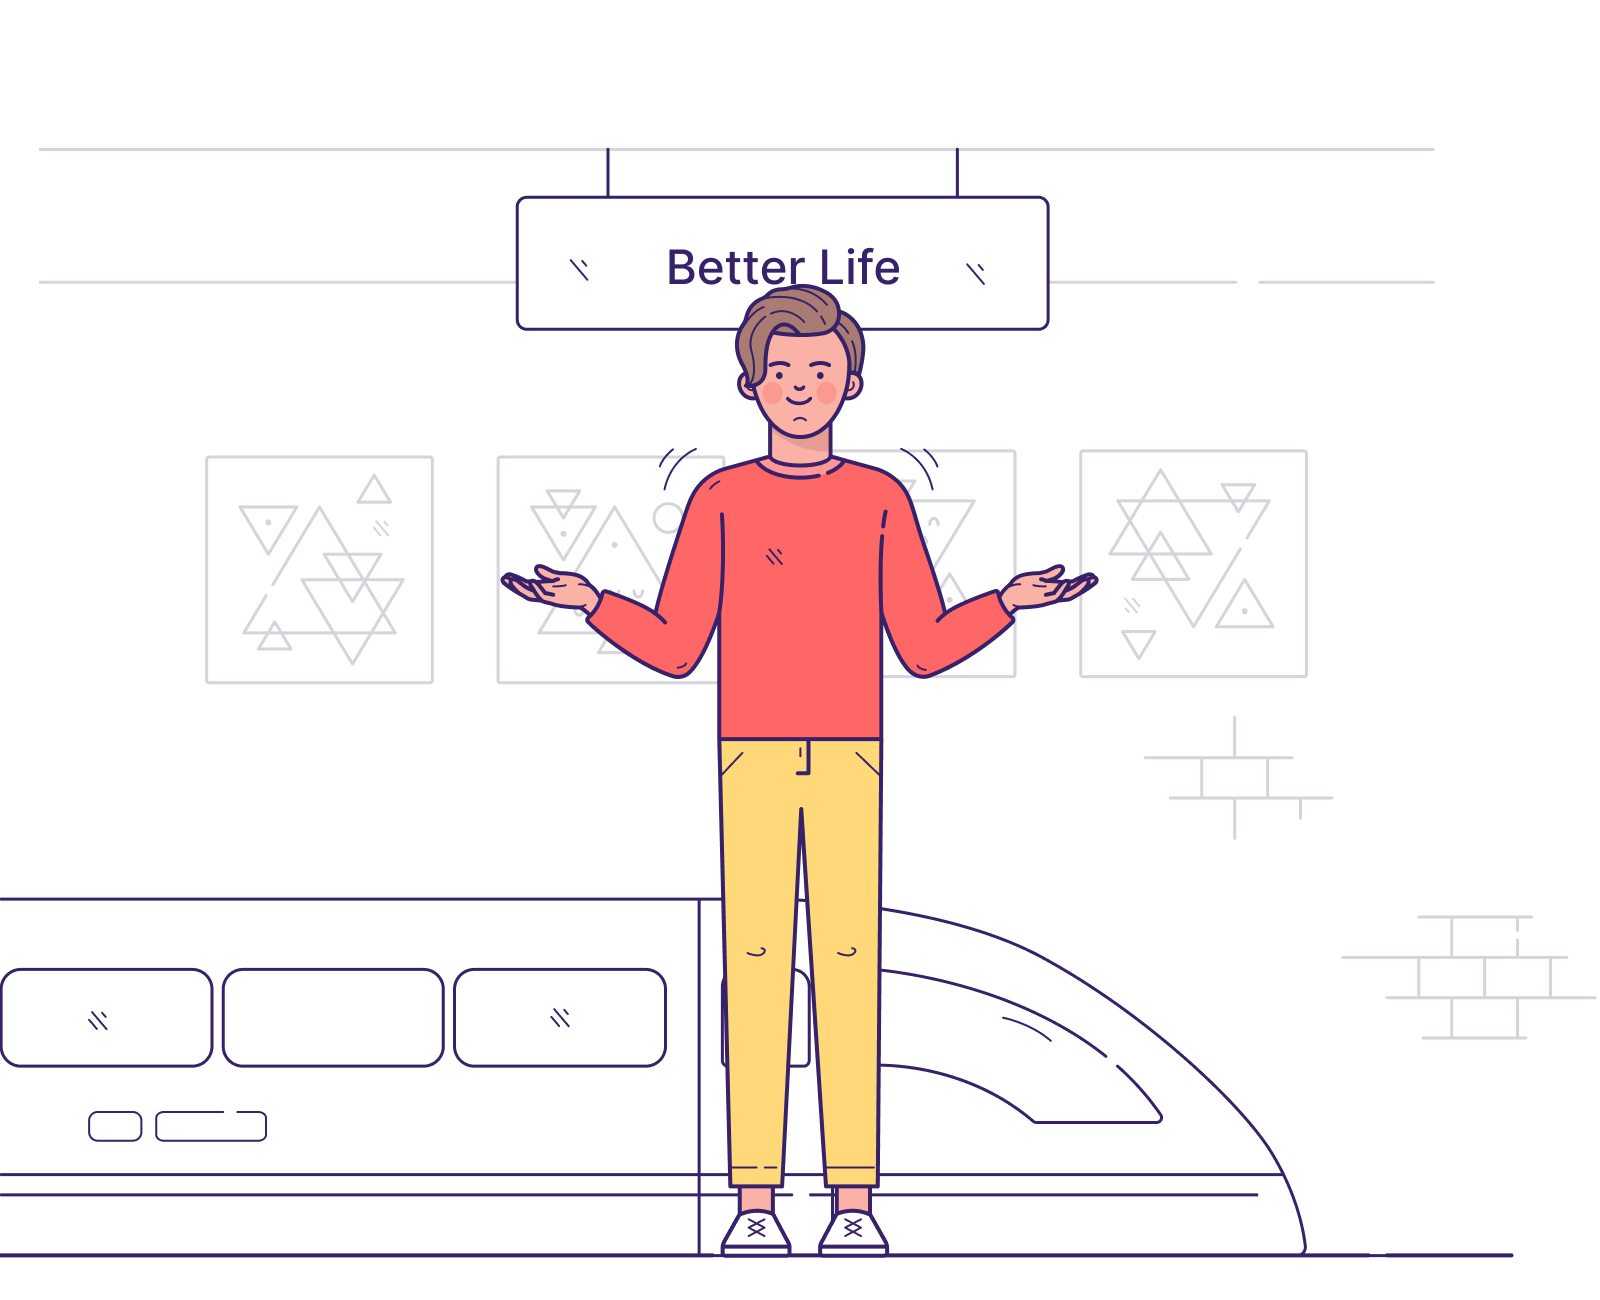
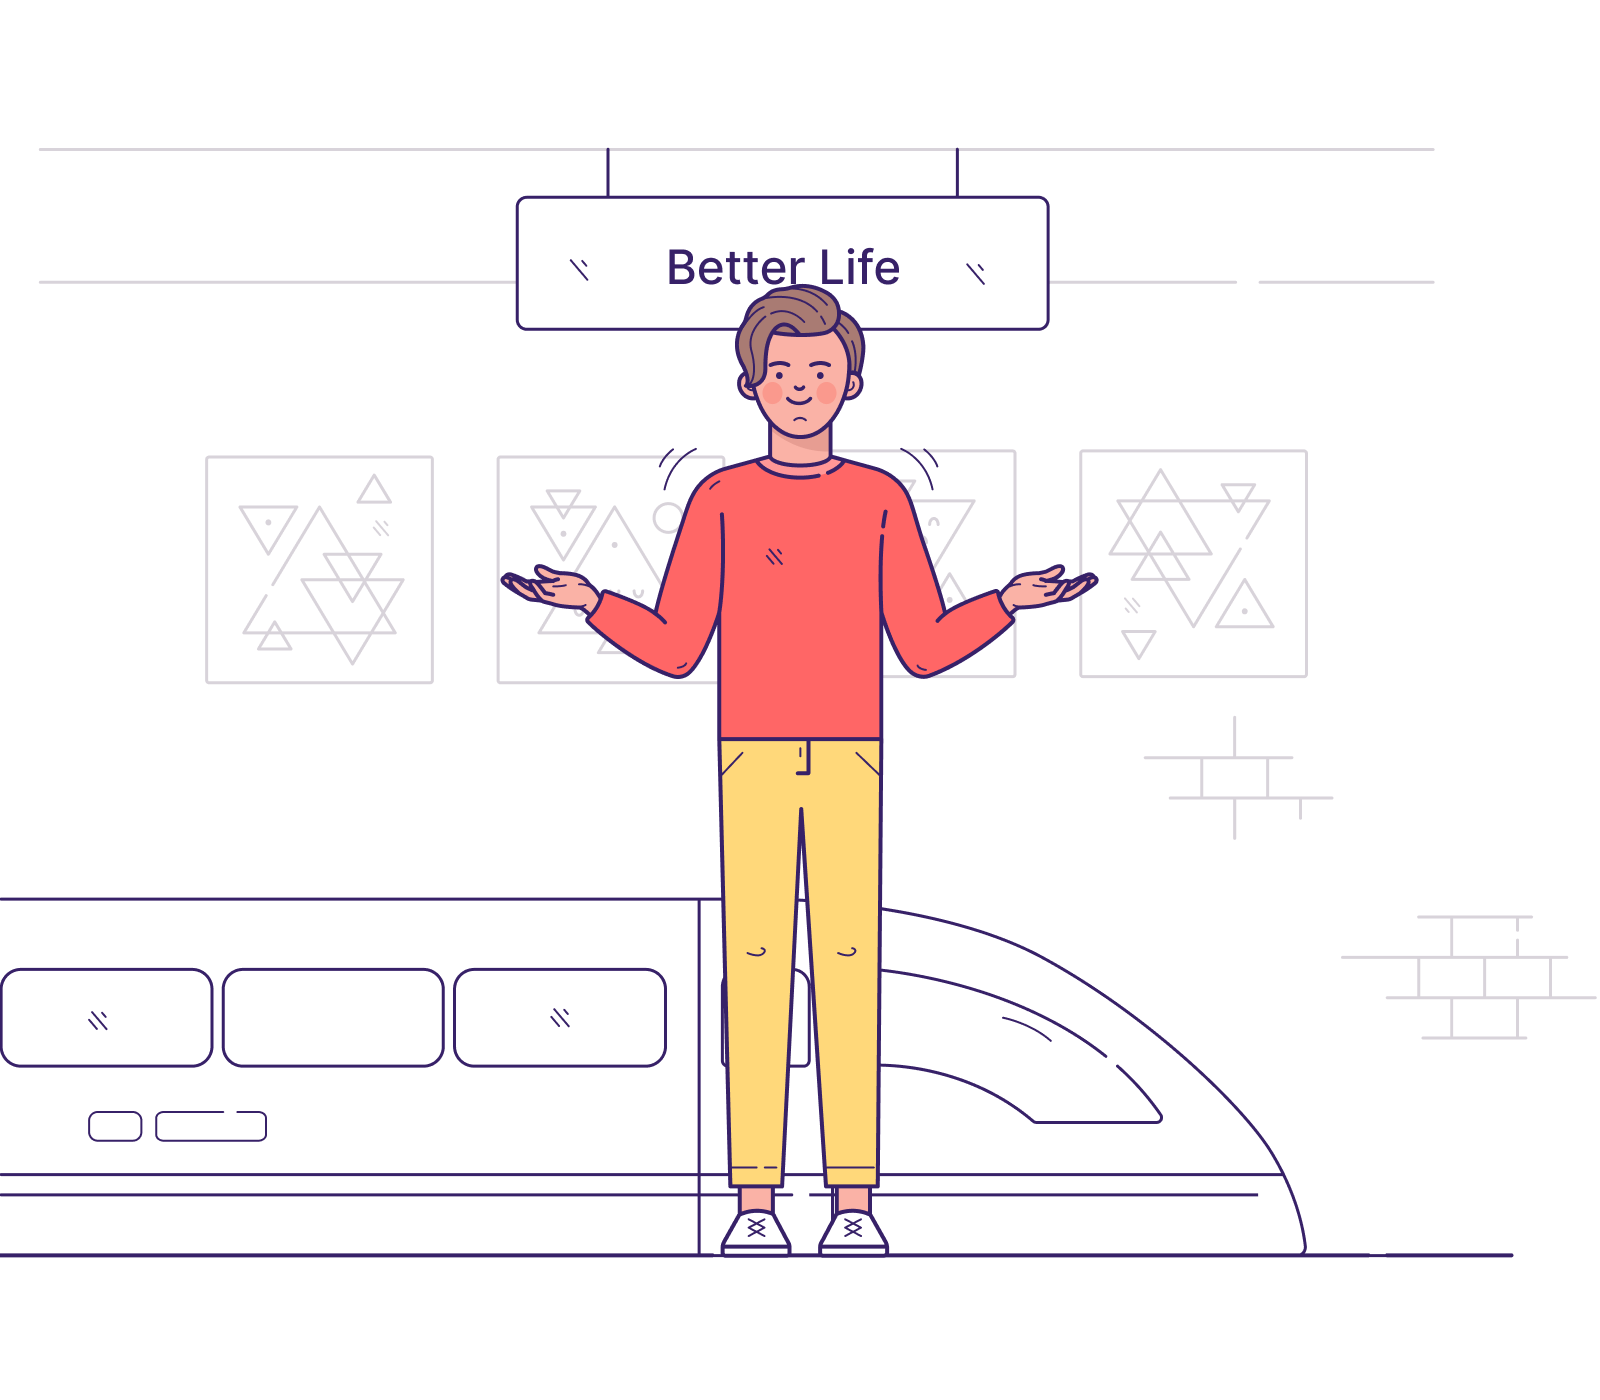
Minor Tweaks

diff --git a/src/components/Links/SocialLink.tsx b/src/components/Links/SocialLink.tsx
@@ -25,6 +25,7 @@ const MainSectionContainer = (props: {
     <Flex
         alignItems="center"
         justifyContent="space-between"
+        textAlign="center"
         background={props.staticBg}
         _hover={{ bg: props.hoverBg }}
         borderBlock="1px"
@@ -39,7 +40,7 @@ const MainSectionContainer = (props: {
         hideArrow
         target="_blank" // Open the link in a new tab
         style={{ color: 'inherit', textDecoration: 'none' }} // Ensures that the font color does not change
-        px={12}
+        px={{base: 6, lg: 12}}
         {...props} // Make sure to spread the rest of the props
     >
         {props.children}

diff --git a/src/pages/links/conradlin/index.tsx b/src/pages/links/conradlin/index.tsx
@@ -121,10 +121,10 @@ const LinksPage = ({
         },
         {
             icon: FaBookOpen,
-            to: "https://www.conradlin.com/blog/",
+            to: "https://www.conradlin.com/blog",
             ariaLabel: "Instagram",
             color: "#000000",
-            title: "My Personal Sharing Space"
+            title: "My Personal Blog"
         },
     ]
 

diff --git a/public/content/make-positive-impact/index.md b/public/content/make-positive-impact/index.md
@@ -22,6 +22,6 @@ When you have achieved a certain level of expertise or understanding, it's not j
 
 | Action                                                       | Description                                                                                                                   |
 |--------------------------------------------------------------|-------------------------------------------------------------------------------------------------------------------------------|
-| [Contribute](/make-positive-impact/contribute)               | We've created fun, engaging ways for our community to complete meaningful one-off or occasional tasks to support our programs and earn life points. |
-| [Collaborate](/make-positive-impact/collaborate)             | We enable our community to make use of their skills and commit regular time towards supporting programs that have benefited their growth journeys. |
-| [Co-Create](/make-positive-impact/co-create)                 | We support the innovation and development of new programs by providing resources and support to creators who want to build solutions for the community. |
+| [Contribute](/make-positive-impact/contribute)               | We've created fun, engaging ways for our community to complete meaningful one-off or occasional tasks to support our programs. |
+| [Collaborate](/make-positive-impact/collaborate)             | We enable our community to make use of their skills and commit regular time towards supporting programs that have benefited their growth. |
+| [Co-Create](/make-positive-impact/co-create)                 | We support the innovation and development of new programs by providing support to creators who want to build solutions for the community. |

diff --git a/public/content/understand-yourself/index.md b/public/content/understand-yourself/index.md
@@ -80,7 +80,7 @@ We integrated foundational theories in psychological and personal development to
   <RichActionCard
     image="evolution_of_wants"
     title="The Evolution Of Wants (& Needs)"
-    description="As we level up in life, our motivations will evolve from having, to doing, to being."
+    description="As we level up in life, our motivations will evolve from having, to doing, to being. Balance your wants to live a fulfilled life."
     to="/understand-yourself/evolution-of-wants"
     buttonText="Explore"
   />
